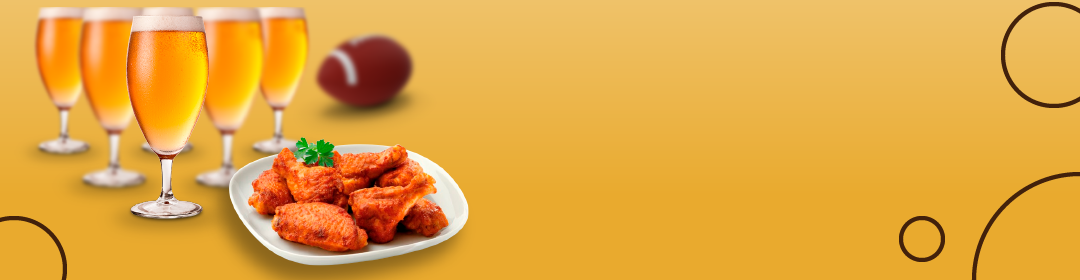
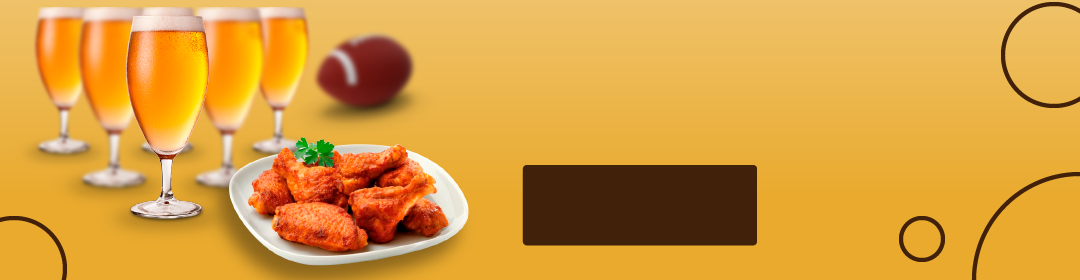
...

Changed region(s): [[0.4583, 0.5714, 0.7028, 0.8857]]

diff --git a/MenuBEER/src/app/Components/beer-poster-page/beer-poster-page.component.ts b/MenuBEER/src/app/Components/beer-poster-page/beer-poster-page.component.ts
@@ -27,6 +27,7 @@ export class BeerPosterPageComponent implements OnInit {
   public title: string;
   public finalText1: string;
   public finalText2: string;
+  public finalText3: string;
 
   public priceInt: string;
   public priceFloat: string;
@@ -64,6 +65,7 @@ export class BeerPosterPageComponent implements OnInit {
     this.title = this.bannersTotal[0].Title;
     this.finalText1=this.bannersTotal[0].Text1;
     this.finalText2=this.bannersTotal[0].Text2;
+    this.finalText3=this.bannersTotal[0].Text3;
     this.positionBanner = this.bannersTotal[0].position;
     this.imageNameBanner = "./assets/images/BeerFooters/"+ this.selectedBanner +".png";
     
@@ -96,7 +98,7 @@ export class BeerPosterPageComponent implements OnInit {
   }
 
   onClickBeerPrice(event: any){
-    this.finalText2 = ""+this.priceInt+"."+this.priceFloat;
+    this.finalText3 = ""+this.priceInt+"."+this.priceFloat;
   }
   onSubmitData(){
 
@@ -124,6 +126,7 @@ export class BeerPosterPageComponent implements OnInit {
                             "Title": this.title,
                             "Text1": this.finalText1,
                             "Text2": this.finalText2,
+                            "Text3": this.finalText3,
                             "position": this.positionBanner};
 
       let finalData: FinalData= { "BeerMain": beersData,

diff --git a/MenuBEER/src/app/Components/beer-poster-page/beer-poster-page.component.html b/MenuBEER/src/app/Components/beer-poster-page/beer-poster-page.component.html
@@ -127,9 +127,13 @@
                   [(ngModel)]="title" class="form-control">
                 </div>
                 <div class="form-group">
-                    <input type="text" value="{{finalText1}}" placeholder="Text" name="finalText1" id="finalText1" maxlength="50"
+                    <input type="text" value="{{finalText1}}" placeholder="Text" name="finalText1" id="finalText1" maxlength="20"
                     [(ngModel)]="finalText1" class="form-control">
                 </div>
+                <div class="form-group">
+                  <input type="text" value="{{finalText2}}" placeholder="Text" name="finalText2" id="finalText2" maxlength="20"
+                  [(ngModel)]="finalText2" class="form-control">
+              </div>
 
                 <div class="form-group">
                   <input type="text" size="1" value=" $" disabled>.

diff --git a/MenuBEER/src/app/Serializers/BeerSerializer.ts b/MenuBEER/src/app/Serializers/BeerSerializer.ts
@@ -9,6 +9,7 @@ export interface Footer {
     "Title": string;
     "Text1": string;
     "Text2": string;
+    "Text3": string;
     "position": string;
 }
 export interface FinalData {
